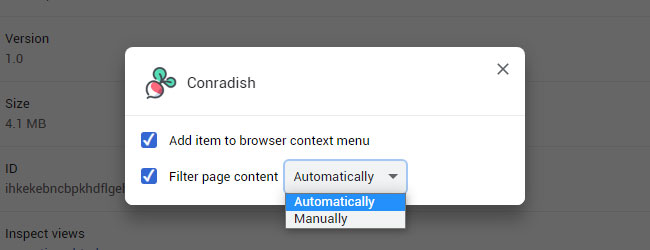
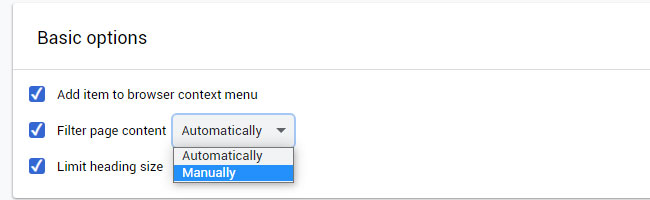
Updated README. Adjusted layout of options page.

diff --git a/css/top-bar.css b/css/top-bar.css
@@ -50,7 +50,7 @@ BODY {
 .toolbar-left, .toolbar-right {
   flex-grow: 1;
   flex-shrink: 0;
-  flex-basis: 100px;
+  flex-basis: 200px;
   padding: 18px 24px 10px 24px;
   font-size: 16px;
   letter-spacing: 0.25px;

diff --git a/README.md b/README.md
@@ -17,6 +17,8 @@ The extension was designed with educators in mind, those who wish to make use we
   - [Applying text style](#applying-text-style)
   - [Finding missing text](#finding-missing-text)
   - [Adjusting filter behavior](#adjusting-filter-behavior)
+  - [Permitting large headings](#permitting-large-headings)
+  - [Selecting additional fonts](#selecting-additional-fonts)
   - [Printing](#printing)
   - [Finding documents](#finding-documents)
   - [Changing document title](#changing-document-title)
@@ -167,9 +169,21 @@ To change the filter setting, click Chrome's extension button in the toolbar the
 
 ![Extension menu](doc/img/extension-menu-1.jpg)
 
-Conradish's option pane will open up in a new tab:
+Conradish's options page will open up in a new tab:
 
 ![Options](doc/img/options-1.jpg)
+
+## Permitting large headings
+
+By default, Conradish reduces H1 headings in articles to H2, a size more suitable for the printed page. If you wish to leave them as-is, uncheck the **Limit heading size** checkbox.
+
+![Options](doc/img/options-2.jpg)
+
+## Selecting additional fonts
+
+To make additional fonts available, click **Fonts** in the side-bar, then the name of the applicable script (e.g. Arabic). Check the checkbox beside the font that you want to be able to use. Uncheck the checkbox if you don't want to see it listed. You can find a font using the search box at the top of the page if you know the name.
+
+![Options](doc/img/options-3.jpg)
 
 ## Printing
 
@@ -199,8 +213,8 @@ If you're in the middle of annotating a document, right click on the page margin
 
 # Limitations
 
-* Font selection has no impact on the display of East-Asian languages.
 * User interface not yet optimized for touch screens.
+* No way to select an alternative translation.
 
 These issues will be addressed in future versions.
 
